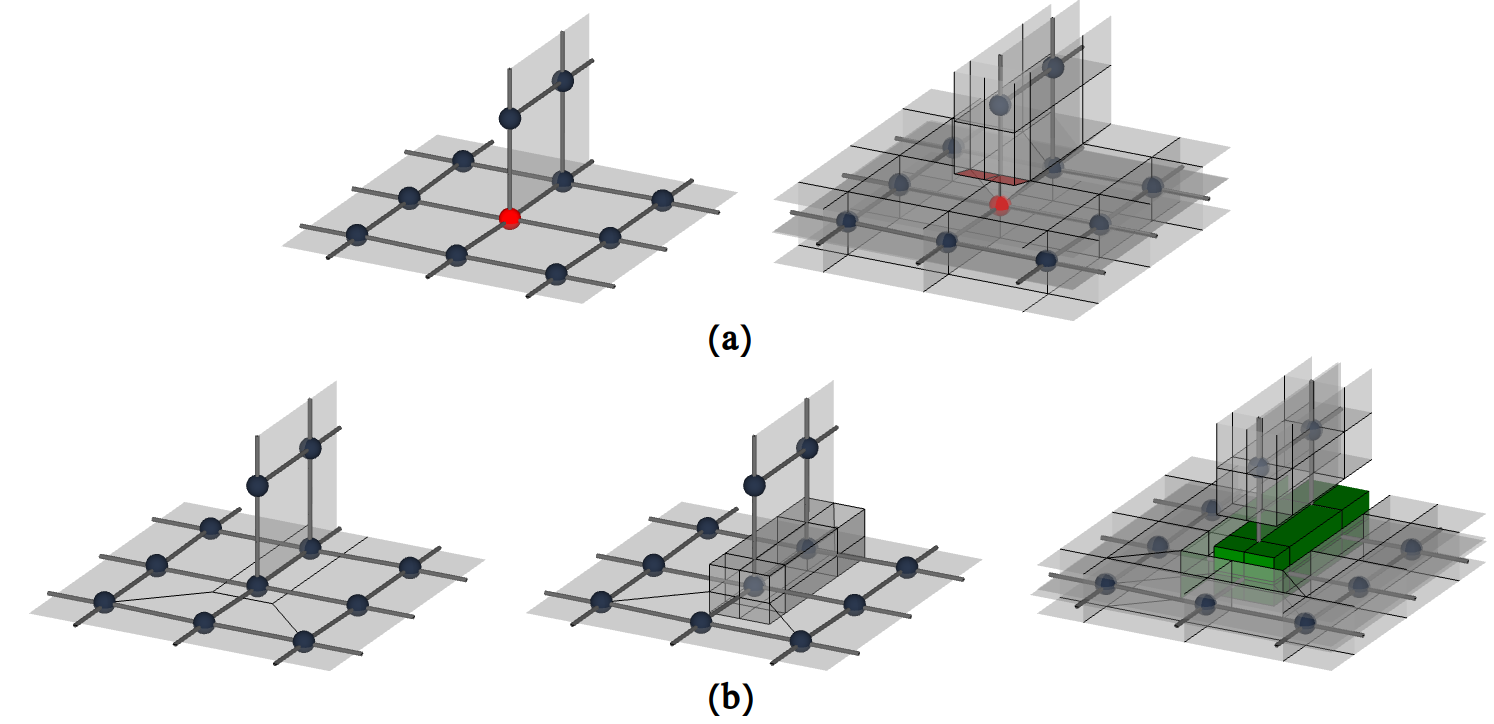
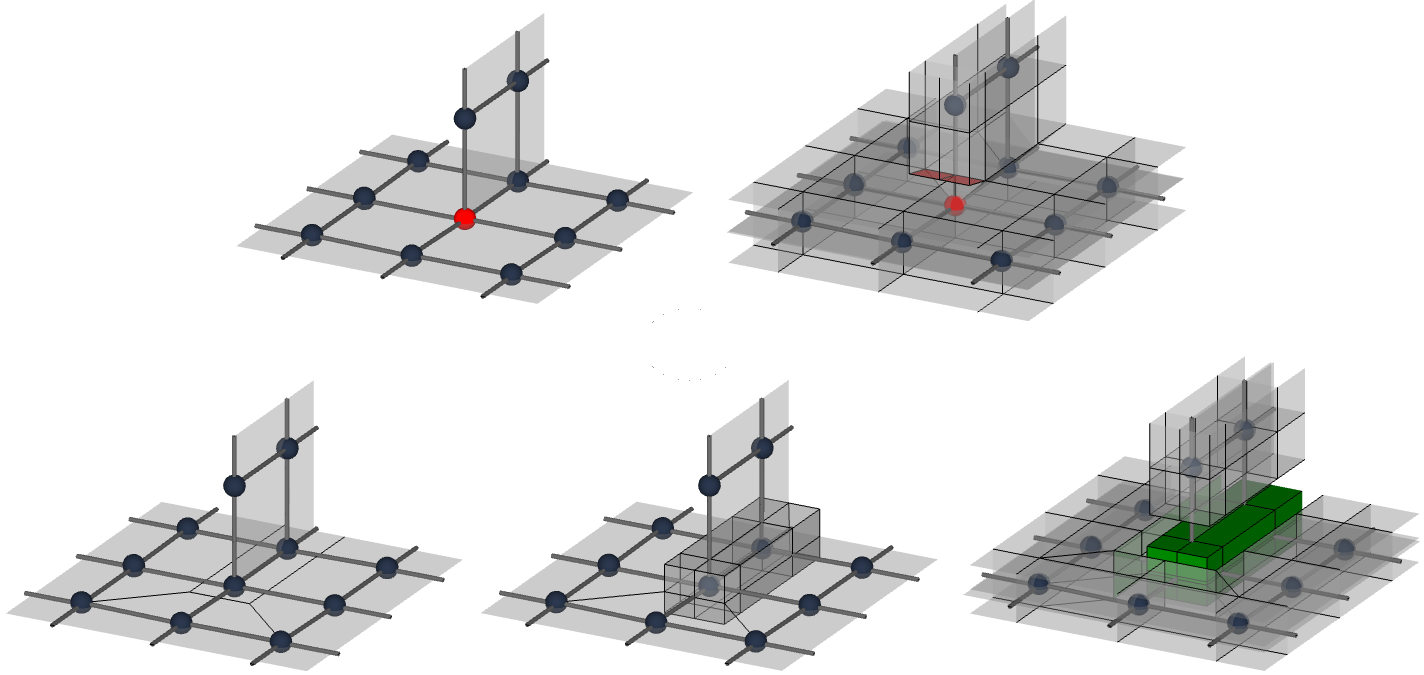
added fan edges

diff --git a/Slides/12_insertion.html b/Slides/12_insertion.html
@@ -1,17 +1,21 @@
 <h2>5 - Blocks Insertion</h2>
 <hr style="width: 70%; display:flex; justify-content:space-evenly;">
-<div class="r-vstack">  
-	<div>  
-		<img src="Images/Volumes/chunkco.png" height="260px" style="margin: 0px;">
-		<p style="font-size:44px; margin-top: -0px;">Edge : Chunk</p>
+<div class="r-hstack">  
+	<div style="padding-right: 5%;">  
+		<img src="Images/Volumes/blocs2.png" height="600px" style="margin: 0px;">
+		<p style="font-size:44px; margin-top: -0px;">Edge : </br>Chunk</p>
+	</div>
+	<div style="padding-right: 5%;">  
+		<img src="Images/Volumes/blocs0.png" height="600px" style="margin: 0px;">
+		<p style="font-size:44px; margin-top: -0px;">Face : </br>Plate</p>
+	</div>
+	<div style="padding-right: 5%;">  
+		<img src="Images/Volumes/blocs1.png" height="600px" style="margin: 0px;">
+		<p style="font-size:44px; margin-top: -0px;">Leaflet boundary : </br>Half-chunk</p>
 	</div>
 	<div>  
-		<img src="Images/Volumes/palette_co.png" height="260px" style="margin: 0px;">
-		<p style="font-size:44px; margin-top: -0px;">Face : Plate</p>
-	</div>
-	<div>  
-		<img src="Images/Volumes/halfchunkco.png" height="260px" style="margin: 0px;">
-		<p style="font-size:44px; margin-top: -0px;">Leaflet boundary : Half-chunk</p>
+		<img src="Images/Volumes/blocs3.png" height="600px" style="margin: 0px;">
+		<p style="font-size:44px; margin-top: -0px;">Fan Edge</p>
 	</div>
 </div>
 

diff --git a/Slides/7_adaptation.html b/Slides/7_adaptation.html
@@ -2,16 +2,16 @@
 <hr style="width: 70%; display:flex; justify-content:space-evenly;">
 <div class="r-hstack">
 	<div class="r-vstack" style="padding-left: 0%; margin: 0px;">
-		<img src="Images/Adaptation/adaptation2.png" height="960px" style="padding-right: 0%; margin: 0px;">
-		<p style="font-size:50px; margin-top: -40px;">Chunk size</p>
+		<img src="Images/Adaptation/adaptation2.png" height="630px" style="padding-right: 0%; margin: 0px;">
+		<p style="font-size:50px;">Chunk size</p>
 	</div>
 	<div class="r-vstack" style="padding-left: 3%; margin: 0px;">
-		<img src="Images/Adaptation/adaptation.png" height="960px" style="padding-right: 0%; margin: 0px;">
-		<p style="font-size:50px; margin-top: -40px;">Plate size</p>
+		<img src="Images/Adaptation/adaptation.png" height="630px" style="padding-right: 0%; margin: 0px;">
+		<p style="font-size:50px;">Plate size</p>
 	</div>
 	<div class="r-vstack" style="padding-left: 3%; margin: 0px;">
-		<img src="Images/Adaptation/regularity.png" height="960px" style="padding-right: 0%; margin: 0px;">
-		<p style="font-size:50px; margin-top: -40px;">Vertex regularity</p>
+		<img src="Images/Adaptation/regularity.png" height="630px" style="padding-right: 0%; margin: 0px;">
+		<p style="font-size:50px;">Vertex regularity</p>
 	</div>
 </div>
 

diff --git a/Slides/11_propagation.html b/Slides/11_propagation.html
@@ -1,14 +1,14 @@
 <h2>4 - Geometric Propagation</h2>
 <hr style="width: 70%; display:flex; justify-content:space-evenly;">
 <div class="r-hstack">  
-	<div style="margin-right: 10%;">  
-		<img src="Images/Propagation/rmf.png" height="800" style="padding-right: 10%; margin: 0px;">
-		<p style="font-size:44px; margin-top: 0px;">Branches : <br>RMF from constraints</p>
+	<div style="margin-right: 0%;">  
+		<img src="Images/Propagation/rmf.png" height="400px">
+		<p style="font-size:50px; margin-top: 0px;">Branches : <br>RMF from constraints</p>
 	</div>
-	<div>  
+	<!-- <div>  
 		<img src="Images/Propagation/leafnorms.png" height="800" style="padding-right: 10%; margin: 0px;">
 		<p style="font-size:44px; margin-top: 0px;">Leaflets :<br>Normals homogenization</p>
-	</div>
+	</div> -->
 </div>
 
 <aside class="notes">

diff --git a/Slides/14b_configrations.html b/Slides/14b_configrations.html
@@ -1,14 +1,14 @@
 <h2>Skeleton Limitations</h2>
 <hr style="width: 70%; display:flex; justify-content:space-evenly;">
 <div class="r-hstack">  
-	<div class="r-vstack">  
+	<div class="r-vstack" style="padding-right: 5%;">  
 		<img src="Images/conf1.png" height="600" style="margin: 0px; margin-top: -30px">
 		<img src="Images/conf0.png" height="600" style="margin-top: -40px; margin-bottom: 0px;">
-		<p style="font-size:44px; margin-top: 0px;">Require interface insertion</p>
+		<p style="font-size:50px; margin-top: 0px;">Require interface insertion</p>
 	</div>
 	<div>  
 		<img src="Images/conf2.png" height="800" style="margin: 0px;">
-		<p style="font-size:44px; margin-top: 0px;">Requires remeshing</p>
+		<p style="font-size:50px; margin-top: 0px;">Requires remeshing</p>
 	</div>
 </div>
 

diff --git a/Slides/10b_echafaudage.html b/Slides/10b_echafaudage.html
@@ -1,0 +1,16 @@
+<h2>3 - Scaffold Construction</h2>
+<hr style="width: 70%; display:flex; justify-content:space-evenly;">
+<h3>Fan edges</h3>
+<div class="r-hstack">  
+		<div>  
+			<img src="Images/Echafaudage/fanscaffold.png" height="600px" style="padding-right: 10%; margin: 0px;">
+		</div>
+</div>
+
+<aside class="notes">
+	<br>- placement d'échafaudage sur les articulations et extremités pour la connectivité
+	<br>- pour permettre un traitement générique
+	<br>- 2 types: 
+	<br>- le long des branches -> 1 quad topologique sans contrainte geometrique, libre
+	<br>- articulations branches/feuillet -> 1 quad contraint par direction et normale des feuillets
+</aside>

diff --git a/index.html b/index.html
@@ -22,6 +22,7 @@
 				<section id="Analyse"></section>
 				<section id="Echaf0"></section>
 				<section id="Echaf1"></section>
+				<section id="Echaf2"></section>
 				<section id="Geometry"></section>
 				<section id="Volumes"></section>
 				<section id="Coutures"></section>
@@ -164,6 +165,7 @@
 
 				loadSlideHtml("Echaf0", "./Slides/9_echafaudage.html");
 				loadSlideHtml("Echaf1", "./Slides/10_echafaudage.html");
+				loadSlideHtml("Echaf2", "./Slides/10b_echafaudage.html");
 				loadSlideHtml("Geometry", "./Slides/11_propagation.html");
 				loadSlideHtml("Volumes", "./Slides/12_insertion.html");
 				loadSlideHtml("Coutures", "./Slides/13_coutures.html");

diff --git a/Slides/13_coutures.html b/Slides/13_coutures.html
@@ -1,13 +1,9 @@
 <h2>6 - Volumes Sewing</h2>
 <hr style="width: 70%; display:flex; justify-content:space-evenly;">
 <div class="r-hstack">  
-	<div style="margin-right: 10%;">  
-		<img src="Images/Coutures/associationsV.png" height="800" style="margin: 0px;">
+	<div style="margin-right: 0%;">  
+		<img src="Images/Coutures/sewing.png" height="700" style="margin: 0px;">
 		<p style="font-size:44px; margin-top: 0px;">Scaffolding</p>
-	</div>
-	<div>  
-		<img src="Images/Coutures/stitchplateV.png" height="800" style="margin: 0px;">
-		<p style="font-size:44px; margin-top: 0px;">Leaflets</p>
 	</div>
 </div>
 

diff --git a/Slides/18_limites.html b/Slides/18_limites.html
@@ -5,6 +5,7 @@
 	<ul style="font-size: 56px;">
 		<li style="padding-top: 0px;">Automatic meso-skeleton extraction</li>
 		<li style="padding-top: 28px;">Automatic skeleton remeshing</li>
+		<li style="padding-top: 28px;">Improve refinement and adaptation</li>
 		<li style="padding-top: 28px;">Production of an editor</li>
 		<ul style="font-size: 50px;">
 			<!-- <li style="padding-top: 0px;">Tester sur plus de donner</li> -->
